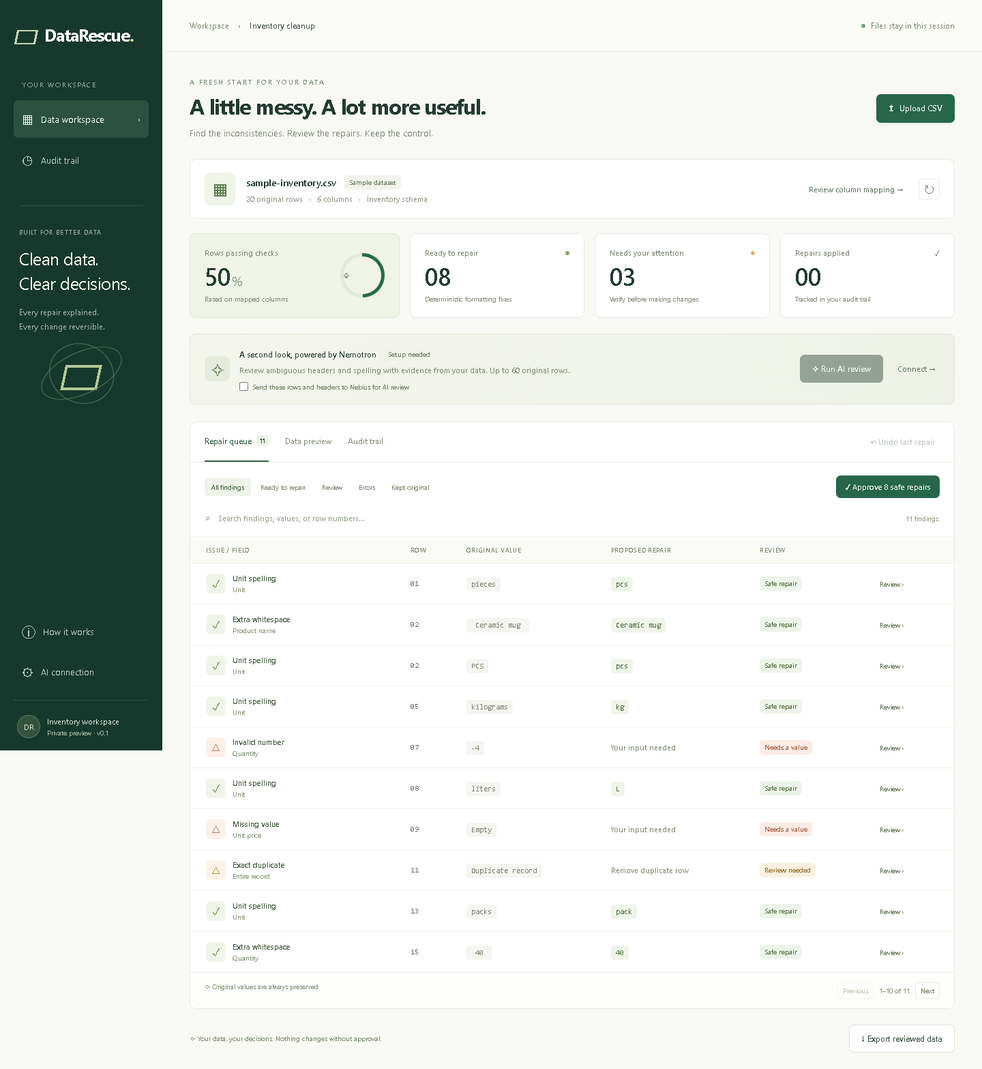
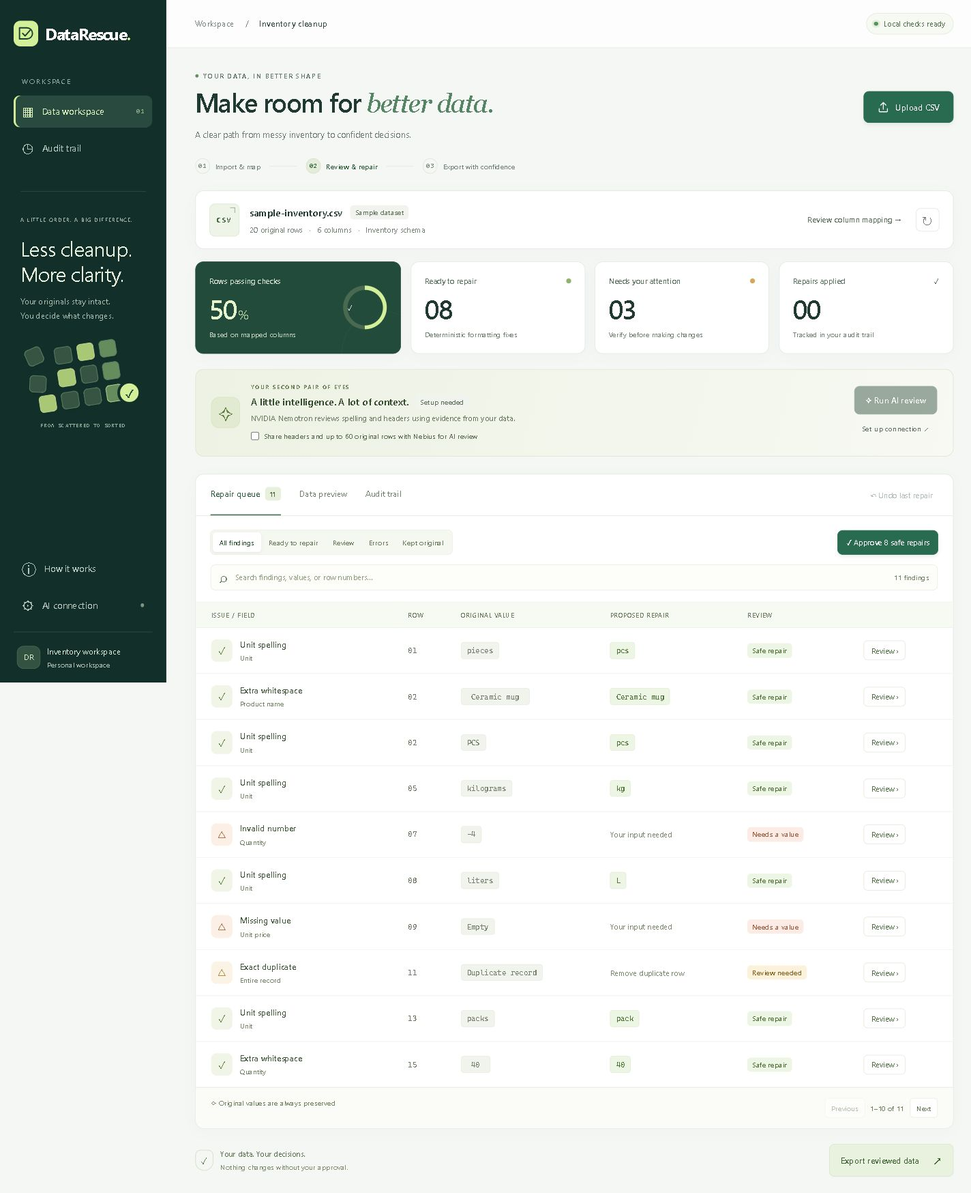
Refresh DataRescue workspace design and mobile repair cards

diff --git a/web/style.css b/web/style.css
@@ -5,3 +5,119 @@
 @media(max-width:560px){.main-content{padding:23px 14px}.topbar{padding-inline:16px;font-size:10px}.page-heading{flex-direction:column;gap:16px}.page-heading h1{font-size:24px;line-height:1.3;max-width:250px}.page-heading p{line-height:1.7;font-size:12px}.eyebrow{font-size:8px;letter-spacing:1px}.stat{padding:13px}.stat strong{font-size:29px}.stat p{font-size:9px}.stat>span,.stat>div>span{font-size:10px}.score-ring{display:none}.file-info h2{font-size:12px}.file-info p{font-size:9px}.dataset-card{padding:14px;gap:10px}.ai-banner{padding:16px;gap:12px}.spark-icon{display:none}.ai-copy{flex-basis:100%}.ai-banner p{line-height:1.7}.consent{line-height:1.6;align-items:flex-start}.consent input{margin-top:3px}.panel-tabs{padding-inline:14px}.tabs{gap:15px}.tabs>button{font-size:10px}.panel-tabs>.text-button{padding:9px 0}.panel-toolbar{padding:14px}.filter{font-size:9px;padding:7px}.search-row{padding-inline:15px}.table-footer{padding:13px;flex-wrap:wrap}.workspace-footer{flex-direction:column}.workspace-footer p{max-width:none}dialog{padding:25px}dialog h2{font-size:21px}.mapping-grid{grid-template-columns:1fr}.value-pair{gap:8px}.modal-actions .button{white-space:normal}.modal-actions{justify-content:stretch}.modal-actions>button{flex:1}.sidebar{width:56px;padding-inline:7px}main{margin-left:56px}}
 .cell-edit{border:0;background:transparent;color:inherit;text-align:left;font:inherit;padding:0;cursor:pointer;white-space:pre-wrap}.cell-edit:hover{text-decoration:underline}
 @media(max-width:560px){.file-info{flex:1 1 calc(100% - 60px)}.dataset-card>.text-button{flex:1 1 auto;justify-content:flex-start}.file-info h2{line-height:1.5}.file-info p{line-height:1.7}}
+
+/* DataRescue visual system — evergreen, warm paper, and citrus accents. */
+:root{--ink:#203a33;--muted:#697a73;--green:#286b50;--line:#e1e7e2;--paper:#f5f7f4;--lime:#d3ef99;--shadow:0 4px 20px #1c3e2805}
+body{font-family:Inter,"Segoe UI",sans-serif;font-size:14px;-webkit-font-smoothing:antialiased}
+button{transition:background .18s,box-shadow .18s,transform .18s}
+button:not(:disabled):active{transform:translateY(1px)}
+button:focus-visible,a:focus-visible,input:focus-visible,select:focus-visible{outline:3px solid #5ca487;outline-offset:3px}
+[hidden]{display:none!important}
+.skip-link{position:fixed;left:16px;top:-80px;z-index:100;background:white;border:2px solid var(--green);padding:14px;border-radius:8px}.skip-link:focus{top:16px}
+.icon{width:18px;height:18px;fill:none;stroke:currentColor;stroke-width:1.7;stroke-linecap:round;stroke-linejoin:round;flex-shrink:0}
+.sidebar{width:244px;background:#132f29;padding:30px 20px 20px;border-right:1px solid #29453b}
+.brand{gap:10px;font-size:24px;letter-spacing:-1px}
+.logo{width:36px;height:38px;display:grid;place-items:center;background:var(--lime);border-radius:10px;color:#193e2e}
+.logo svg{width:29px;height:29px;fill:none;stroke:currentColor;stroke-width:2.1;stroke-linecap:round;stroke-linejoin:round}
+.brand-dot{color:var(--lime)}
+.workspace-label{font-size:10px;letter-spacing:1.6px;color:#92a99e;margin:44px 12px 14px}
+.side-link{border-radius:9px;padding:13px 12px;gap:12px;margin-bottom:7px;color:#b6c9bf;min-height:46px;font-size:13px}
+.side-link>span{font-size:21px;line-height:1}
+.side-link b{font-weight:500}
+.side-link.active{background:#294a3e;color:#e0f4c1;box-shadow:inset 3px 0 var(--lime)}
+.side-link i{font:10px Consolas,monospace;opacity:.6}
+.side-note{margin:32px 10px 24px;border-top:1px solid #355044;padding-top:28px}
+.tiny-label{font-size:8px;letter-spacing:1.1px;color:#a1b3a5}
+.side-note h3{font-size:30px;line-height:1.22;font-weight:400;letter-spacing:-1px;margin:17px 0 12px;color:#e8f2de}
+.side-note p{font-size:12px;line-height:1.8;color:#a9bcb0}
+.data-art{position:relative;display:grid;grid-template-columns:repeat(4,25px);gap:8px;width:140px;margin:30px auto 20px;transform:rotate(-9deg)}
+.data-art span{height:25px;border:1px solid #60876c;background:#365441;border-radius:6px;box-shadow:0 3px 5px #0a1d2020}
+.data-art span:nth-child(3n){background:#a9c875;border-color:#c6e39b}
+.data-art span:nth-child(4n){background:#658c5d}
+.data-art span:first-child{transform:translate(-9px,-5px) rotate(-15deg)}
+.data-art span:nth-child(5){transform:translate(-10px,3px) rotate(12deg)}
+.data-art b{position:absolute;right:-10px;bottom:-8px;width:35px;height:35px;border:4px solid #132f29;background:var(--lime);color:#254c36;border-radius:50%;display:grid;place-items:center;transform:rotate(9deg);font-size:16px}
+.art-caption{display:block;font:8px Consolas,monospace;letter-spacing:1.2px;color:#96af9c;text-align:center;margin-top:24px}
+.profile{font-size:12px;border-color:#355044;padding-top:20px}
+.profile>span{border-radius:10px;color:#d9ebc6;background:#335242;border-color:#4b6957}
+.profile small{color:#a9bcae;font-size:10px}.connection-dot{background:#c9d5bc;width:5px;height:5px;border-radius:50%}
+main{margin-left:244px}.topbar{height:70px;padding:0 42px;background:#ffffffb5;font-size:12px;color:#75857c}.topbar>div{gap:16px}.topbar strong{font-weight:600;color:#344d41}
+.local-status{font-size:11px;border:1px solid #e1e9de;background:#f6faf3;border-radius:30px;padding:7px 11px;color:#55704f}.local-status i{background:#55935d;box-shadow:0 0 0 3px #e3efdc}
+.main-content{max-width:1570px;padding:36px 42px 25px}
+.page-heading{margin-bottom:25px;gap:25px}
+.eyebrow{display:flex;align-items:center;gap:7px;font-size:9px;color:#667c6c;letter-spacing:1.8px;font-weight:650}.eyebrow>span{height:5px;width:5px;background:#61905c;border-radius:50%}
+.page-heading h1{font-size:clamp(29px,2.7vw,42px);font-weight:550;letter-spacing:-1.7px;line-height:1.15;margin:11px 0 12px}
+.page-heading h1 em{font-family:Georgia,serif;font-weight:400;color:#568565;letter-spacing:-1.5px}
+.page-heading p{font-size:13px;color:#708076;line-height:1.6}
+.button{border-radius:8px;min-height:42px;padding:11px 16px;font-size:12px;gap:9px;font-weight:600;border-color:#d7e1d8;box-shadow:0 1px 2px #12322405}
+.button.primary{background:#286b50;border-color:#286b50;box-shadow:0 3px 6px #204e3516}
+.button.primary:hover:not(:disabled){background:#20583f;box-shadow:0 4px 10px #204e3528}
+.upload-button{height:46px;padding-inline:19px}.button.small{font-size:11px;min-height:36px;padding:8px 12px}
+.text-button{font-size:11px;font-weight:500;color:#617466;min-height:32px}
+.journey{display:flex;align-items:center;gap:13px;margin-bottom:25px;color:#728477;font-size:10px}
+.journey>span{display:flex;gap:8px;align-items:center;white-space:nowrap}
+.journey b{font:10px Consolas,monospace;display:grid;place-items:center;width:22px;height:22px;border:1px solid #dce5d9;border-radius:50%;font-weight:400}
+.journey .current{color:#31603f;font-weight:600}.journey .current b{background:#e3edda;border-color:#d4e0c7}
+.journey i{height:1px;width:40px;background:#dfe7dc}
+.dataset-card{padding:18px 20px;border-radius:12px;gap:15px;margin-bottom:18px;box-shadow:var(--shadow)}
+.file-icon{position:relative;width:44px;height:48px;border-radius:8px;background:#eef4e7;font:11px Consolas,monospace;letter-spacing:.6px;color:#456840;border:1px solid #dbe7d1;font-weight:700}
+.file-icon:before{content:"";position:absolute;right:5px;top:5px;width:7px;height:7px;border-top:1px solid #8ba17e;border-right:1px solid #8ba17e}
+.file-info h2{font-size:14px;font-weight:600;letter-spacing:-.2px}
+.file-info p{font-size:11px;color:#788478;margin-top:7px}.file-info p span{color:#b7c2b0}
+.pill{font-size:10px;border-radius:5px;padding:4px 7px;font-weight:500}
+.neutral{background:#f1f4ee;color:#63745c}.green-pill{background:#edf5e5;color:#4f7138}.amber-pill{background:#fcf1db;color:#876321}.red-pill{background:#fcece5;color:#a05a3d}
+.icon-button{border-radius:7px;width:34px;height:34px;font-size:19px}
+.stats{grid-template-columns:1.18fr 1fr 1fr 1fr;gap:14px;margin-bottom:22px}
+.stat{padding:20px;border-radius:12px;box-shadow:var(--shadow);position:relative;overflow:hidden}
+.stat>span,.stat>div>span{font-size:11px;font-weight:500;color:#637769}
+.stat strong{font-size:39px;font-weight:500;letter-spacing:-1.6px;margin:12px 0 9px;font-variant-numeric:tabular-nums}
+.stat p{font-size:10px;color:#778779;line-height:1.5}
+.stat.score{background:#234b3b;color:#fff;border-color:#234b3b;gap:10px}
+.stat.score:after{content:"";position:absolute;width:120px;height:120px;border:1px solid #ffffff09;right:-35px;bottom:-60px;border-radius:50%}
+.stat.score>div>span{color:#d3dfcf}.stat.score strong{color:#e7f5ce}.stat.score strong small{color:#adca9e}
+.stat.score p{color:#bdceb8}
+.score-ring{width:64px;height:64px;z-index:1}
+.score-ring>span{width:52px;height:52px;background:#234b3b;color:#d7ecad;font-size:24px}
+.dot{width:7px;height:7px}.green{background:#8fb36f}.amber{background:#d4a85b}
+.ai-banner{padding:21px 23px;border-radius:12px;background:linear-gradient(105deg,#edf2e4,#f7f9f2);border-color:#dce6ce;gap:16px;position:relative;margin-bottom:26px}
+.spark-icon{width:42px;height:46px;background:#e2ebd2;border:1px solid #d6e2c1;border-radius:12px;color:#638143;font-size:32px}
+.ai-kicker{font-size:8px;font-weight:650;letter-spacing:1.5px;color:#72845c;margin-bottom:6px}
+.ai-banner h3{font-size:14px;font-weight:600;letter-spacing:-.25px;color:#354c2c;flex-wrap:wrap}
+.ai-banner p{font-size:11px;line-height:1.6;color:#68785c}
+.consent{font-size:10px;color:#5c7051;line-height:1.5;margin-top:10px}.consent input{width:13px;height:13px;flex-shrink:0}
+.ai-actions{display:flex;flex-direction:column;align-items:center;gap:4px;flex-shrink:0}
+.button.dark{background:#254a35;border-color:#254a35}.ai-actions .text-button{font-size:10px}
+.work-panel{border-radius:12px;box-shadow:var(--shadow)}
+.panel-tabs{min-height:61px;padding:0 22px}.tabs{gap:27px}.tabs>button{font-size:12px;color:#71816d}.tabs>button.selected{color:#305e40;border-bottom:2px solid #3e7250}
+.tabs span{border-radius:5px;background:#e7efdd;color:#597044;min-width:23px;text-align:center;padding:3px 5px}
+.panel-toolbar{padding:20px 21px 14px;gap:12px}
+.filter-group{padding:3px;background:#f5f7f1;border:1px solid #edf0e6;border-radius:7px;gap:1px}
+.filter{font-size:10px;padding:6px 10px;min-height:29px;border-radius:5px;color:#6d7d60}
+.filter.active-filter{background:white;color:#365d3b;box-shadow:0 1px 4px #27452016}
+.search-row{margin:0 22px 17px;padding:0 12px;height:38px;border:1px solid #e7ece2;background:#fdfefa;border-radius:7px;color:#67805a}
+.search-row input{font-size:11px;height:100%;outline-offset:0}.search-row>span:first-child{font-size:20px}.search-row>span:last-child{color:#758669;white-space:nowrap}
+table{font-size:12px}th{font-size:9px;letter-spacing:.8px;padding-block:13px;background:#f7f9f3;color:#6f8064;border-color:#e9eee1}td{padding:16px 15px;color:#6b7861;border-color:#eef1e9}
+tbody tr:hover{background:#fbfcf8}.issue-name{gap:11px}.issue-name strong{font-size:12px;color:#3e5637;font-weight:550}.issue-name small{font-size:10px;color:#7d8a70;margin-top:5px}
+.issue-symbol{width:31px;height:33px;border-radius:8px;font-size:15px}.issue-symbol.safe{background:#f0f5e8;color:#668846}.issue-symbol.error{background:#fcefe6;color:#b07147}
+.mono,code{font-family:"Cascadia Code",Consolas,monospace;font-size:11px}
+.old-value{background:#f1f3ed;color:#77806c;border:1px solid #e9ece2;padding:5px 8px;display:inline-block}
+.new-value{background:#edf5e4;color:#52753c;border:1px solid #e3edd6;padding:5px 8px;display:inline-block}
+.row-review{font-size:11px;border:1px solid #e3e9da;padding:6px 10px;border-radius:6px;color:#527146;background:#fff}
+.row-review:hover{background:#eff5e8}
+.table-footer{padding:15px 22px;background:#fbfcf8;color:#738462;font-size:10px}.table-footer button{min-height:29px;border-radius:5px;padding:5px 9px;font-size:10px}
+.workspace-footer{margin-top:22px}.workspace-footer p{display:flex;gap:10px;align-items:center;font-size:11px;color:#58734c;max-width:none}.workspace-footer small{display:block;font-size:10px;color:#839275;margin-top:4px}
+.footer-shield{width:27px;height:30px;border:1px solid #ceddc1;border-radius:8px 8px 13px 13px;display:grid;place-items:center;color:#62864b;font-size:14px}
+.export-button{background:#e9f1df;border-color:#d9e4cc;color:#3d6031}.export-button span{font-size:18px;margin-left:10px}
+.notice{font-size:12px;border-radius:9px}.empty-state{padding:55px 20px}.empty-state h3{font-weight:500;color:#426539}
+dialog{border-radius:16px;background:#fffefb;padding:32px;box-shadow:0 25px 100px #102c2950}dialog h2{font-size:25px;color:#284937}dialog p{font-size:13px;color:#63765a}
+dialog::backdrop{background:#122c2970;backdrop-filter:blur(5px)}
+.explanation{border-radius:9px;color:#516d43;font-size:12px;background:#f0f5e9}.form-field input,.form-field select{min-height:44px;border-radius:8px}
+.audit-item strong{font-size:13px}.audit-item p{font-size:12px}.help-list{font-size:13px;line-height:1.8}
+@media(min-width:1550px){.main-content{padding-top:42px}.stat{padding:24px}.page-heading h1{font-size:43px}}
+@media(max-width:1250px){.sidebar{width:214px;padding-inline:16px}main{margin-left:214px}.main-content{padding:30px 25px}.topbar{padding-inline:25px}.brand{font-size:21px}.side-note{margin-inline:8px}.tiny-label{font-size:7px}.stat{padding:17px}.stats{gap:11px}.score-ring{width:50px;height:50px}.score-ring>span{width:40px;height:40px;font-size:20px}.ai-banner{padding:18px;gap:13px}.ai-copy{min-width:200px}.page-heading h1{font-size:32px}}
+@media(max-width:1000px){.sidebar{width:74px;padding:24px 11px}.brand{margin-bottom:28px;justify-content:center}.brand-text,.workspace-label,.side-note,.profile,.side-link b,.side-link i{display:none}.side-link{justify-content:center;padding:12px;min-height:44px}.side-link.active{box-shadow:inset 0 -2px var(--lime)}main{margin-left:74px}.stats{grid-template-columns:repeat(4,1fr)}.score-ring{display:none}.stat strong{font-size:34px}.page-heading h1{font-size:30px}.ai-banner{flex-wrap:nowrap}.ai-banner h3{font-size:13px}.spark-icon{display:none}}
+@media(max-width:760px){.stats{grid-template-columns:repeat(2,1fr)}.score-ring{display:grid}.main-content{padding:26px 22px}.page-heading{align-items:flex-start}.page-heading h1{font-size:29px}.page-heading p{font-size:12px}.upload-button{height:42px;padding:10px 13px}.journey{font-size:9px;gap:9px}.journey i{width:15px}.journey b{width:20px;height:20px}.ai-banner{flex-wrap:wrap}.ai-copy{flex:1 1 100%}.ai-actions{flex-direction:row;gap:12px}.panel-toolbar{flex-wrap:wrap}.filter-group{flex-wrap:wrap}.panel-tabs{padding:0 17px;flex-wrap:wrap}.tabs{gap:22px;min-height:57px}.panel-tabs>.text-button{font-size:10px}.search-row{margin-inline:17px}.dataset-card{flex-wrap:wrap}.file-info{flex:1 1 calc(100% - 75px)}.dataset-card>.text-button{margin-left:59px}.workspace-footer p{font-size:10px}}
+@media(max-width:560px){.sidebar{position:sticky;top:0;width:100%;height:62px;padding:10px 16px;flex-direction:row;align-items:center;z-index:20;gap:9px;border:0;border-bottom:1px solid #335143}.app-shell{display:block}.brand{margin:0 auto 0 0;gap:8px}.brand-text{display:block;font-size:20px}.logo{width:31px;height:33px;border-radius:8px}.logo svg{width:26px;height:26px}.sidebar>.side-link{width:35px;height:36px;min-height:36px;padding:5px;margin:0}.side-bottom{display:flex;margin:0}.side-bottom .side-link{width:35px;min-height:36px;margin:0;padding:5px}.side-bottom .side-link[data-action=help]{display:none}.side-link>span{font-size:19px}main{margin:0}.topbar{height:45px;padding-inline:18px;font-size:10px}.topbar>div{gap:10px}.local-status{display:none}.main-content{padding:25px 17px 20px}.page-heading{display:block;margin-bottom:20px}.page-heading h1{font-size:32px;max-width:310px;letter-spacing:-1.3px;line-height:1.1;margin:11px 0 12px}.page-heading h1 em{display:block}.page-heading p{max-width:280px;font-size:12px;line-height:1.65}.eyebrow{font-size:8px;letter-spacing:1.5px}.upload-button{margin-top:17px;width:100%}.journey{gap:7px;justify-content:space-between;margin-bottom:19px;font-size:9px}.journey>span{gap:5px}.journey i{width:10px}.journey b{width:18px;height:18px;font-size:9px}.journey>span:last-child{font-size:0}.journey>span:last-child:after{content:"Export";font-size:9px}.dataset-card{padding:15px;gap:12px;margin-bottom:14px}.file-info h2{font-size:12px;line-height:1.5;gap:5px}.file-info p{font-size:10px;line-height:1.7}.dataset-card>.text-button{margin:0;flex:1;justify-content:flex-start;font-size:10px}.stats{gap:10px;margin-bottom:17px}.stat{padding:17px 15px;min-height:137px}.stat strong{font-size:33px;margin:12px 0 9px}.stat p{font-size:9px;line-height:1.55}.stat>span,.stat>div>span{font-size:10px}.score-ring{display:none}.ai-banner{padding:17px;margin-bottom:20px}.ai-banner h3{font-size:14px;line-height:1.5;gap:7px}.ai-banner p{font-size:11px}.ai-kicker{font-size:8px;letter-spacing:1.2px}.consent{font-size:10px;align-items:flex-start;gap:8px;line-height:1.6;margin-top:12px}.consent input{margin-top:2px}.ai-actions{gap:7px;justify-content:space-between;width:100%}.ai-actions .button{font-size:11px;padding-inline:12px}.ai-actions .text-button{font-size:10px}.panel-tabs{padding-inline:14px}.tabs{gap:19px;min-height:54px}.tabs>button{font-size:11px}.panel-tabs>.text-button{padding-block:9px;min-height:28px;margin-bottom:5px}.panel-toolbar{padding:13px;gap:12px}.filter-group{width:100%;gap:0}.filter{font-size:9px;padding:6px 7px}.panel-toolbar>.button{width:100%}.search-row{margin:0 13px 13px;padding:0 9px}.search-row input{font-size:10px}.search-row>span:last-child{font-size:9px}th{font-size:8px}td{padding:14px 12px}.table-scroll{position:relative}.table-footer{padding:13px;font-size:9px;gap:12px}.workspace-footer{flex-direction:column;align-items:stretch;gap:17px}.workspace-footer p{font-size:11px;line-height:1.4}.export-button{width:100%;min-height:45px}dialog{padding:24px;max-width:calc(100% - 24px)}dialog h2{font-size:23px}.modal-actions{gap:8px}.mapping-grid{grid-template-columns:1fr}.value-pair{padding:12px}.help-list{font-size:12px}}
+@media(prefers-reduced-motion:no-preference){.main-content{animation:arrive .4s ease-out}@keyframes arrive{from{opacity:0;transform:translateY(5px)}to{opacity:1;transform:none}}}
+
+@media(max-width:560px){.review-table,.review-table tbody{display:block}.review-table thead{position:absolute;width:1px;height:1px;overflow:hidden;clip-path:inset(50%)}.review-table tr{display:grid;grid-template-columns:1fr 1fr;margin:0 13px 12px;padding:13px;border:1px solid #e4eadc;border-radius:10px;background:#fff;gap:12px}.review-table td{padding:0!important;border:0;max-width:none;min-width:0}.review-table td:first-child{grid-column:1 / -1}.review-table td:nth-child(2){position:absolute;right:27px;font-size:10px;color:#7c8d71;padding-top:2px!important}.review-table td:nth-child(2):before{content:"Row ";font:10px 'Segoe UI',sans-serif}.review-table td[data-label]:not(:nth-child(2)):before{content:attr(data-label);display:block;font-size:9px;color:#7a896e;margin-bottom:7px}.review-table td:last-child{text-align:right}.review-table .issue-name{min-width:0;padding-right:42px}.review-table .issue-name strong{font-size:12px}.review-table .old-value,.review-table .new-value{font-size:11px;max-width:100%;overflow-wrap:anywhere}.review-table .row-review{min-height:32px;padding:5px 12px}.review-table tr{position:relative}.review-table td:nth-child(2){right:13px;top:15px}.review-table .pill{margin-top:5px}.review-table .muted{font-size:11px;line-height:1.6}}

diff --git a/web/app.js b/web/app.js
@@ -15,8 +15,8 @@ function refresh() {
   const score=quality(currentRows,findings), original=quality(s.data.rows,scan(s.data.rows,s.mapping));
   const missing=FIELDS.filter(f=>f!=='category'&&s.mapping[f]===undefined);
   $('messages').innerHTML=(s.error?`<div class="notice error" role="alert">⚠ ${escape(s.error)}<button data-action="dismiss" aria-label="Dismiss message">×</button></div>`:'')+(s.notice?`<div class="notice" role="status">✓ ${escape(s.notice)}<button data-action="dismiss" aria-label="Dismiss message">×</button></div>`:'');
-  $('dataset').innerHTML=`<div class="file-icon">▦</div><div class="file-info"><h2>${escape(s.filename)}<span class="pill neutral">${s.isSample?'Sample dataset':'Your dataset'}</span></h2><p>${s.data.rows.length} original rows <span>·</span> ${s.data.headers.length} columns <span>·</span> Inventory schema</p>${missing.length?`<div class="unmapped">Unmapped: ${missing.map(f=>LABELS[f]).join(', ')}</div>`:''}</div><button class="text-button" data-action="mapping" ${s.changes.length||s.busy?'disabled':''}>Review column mapping →</button><button class="icon-button" data-action="sample" aria-label="Load sample dataset" title="Load sample dataset" ${s.busy?'disabled':''}>↻</button>`;
-  $('stats').innerHTML=`<div class="stat score"><div><span>Rows passing checks</span><strong>${score}<small>%</small></strong><p>${s.changes.length?`Started at ${original}% · current checks`:'Based on mapped columns'}</p></div><div class="score-ring" style="background:conic-gradient(#236b4b ${score}%,#e0e9df 0)"><span>♧</span></div></div><div class="stat"><span>Ready to repair <i class="dot green"></i></span><strong>${String(safe.length).padStart(2,'0')}</strong><p>Deterministic formatting fixes</p></div><div class="stat"><span>Needs your attention <i class="dot amber"></i></span><strong>${String(attention.length).padStart(2,'0')}</strong><p>Verify before making changes</p></div><div class="stat"><span>Repairs applied <span>✓</span></span><strong>${String(s.changes.length).padStart(2,'0')}</strong><p>Tracked in your audit trail</p></div>`;
+  $('dataset').innerHTML=`<div class="file-icon" aria-hidden="true">CSV</div><div class="file-info"><h2>${escape(s.filename)}<span class="pill neutral">${s.isSample?'Sample dataset':'Your dataset'}</span></h2><p>${s.data.rows.length} original rows <span>·</span> ${s.data.headers.length} columns <span>·</span> Inventory schema</p>${missing.length?`<div class="unmapped">Unmapped: ${missing.map(f=>LABELS[f]).join(', ')}</div>`:''}</div><button class="text-button" data-action="mapping" ${s.changes.length||s.busy?'disabled':''}>Review column mapping →</button><button class="icon-button" data-action="sample" aria-label="Load sample dataset" title="Load sample dataset" ${s.busy?'disabled':''}>↻</button>`;
+  $('stats').innerHTML=`<div class="stat score"><div><span>Rows passing checks</span><strong>${score}<small>%</small></strong><p>${s.changes.length?`Started at ${original}% · current checks`:'Based on mapped columns'}</p></div><div class="score-ring" style="background:conic-gradient(#d3ef99 ${score}%,#496a50 0)"><span>✓</span></div></div><div class="stat"><span>Ready to repair <i class="dot green"></i></span><strong>${String(safe.length).padStart(2,'0')}</strong><p>Deterministic formatting fixes</p></div><div class="stat"><span>Needs your attention <i class="dot amber"></i></span><strong>${String(attention.length).padStart(2,'0')}</strong><p>Verify before making changes</p></div><div class="stat"><span>Repairs applied <span>✓</span></span><strong>${String(s.changes.length).padStart(2,'0')}</strong><p>Tracked in your audit trail</p></div>`;
   $('ai-status').textContent=s.config?.configured?'Key configured':'Setup needed';
   $('ai-status').className='pill '+(s.config?.configured?'green-pill':'neutral');
   $('connect').hidden=Boolean(s.config?.configured);
@@ -24,7 +24,8 @@ function refresh() {
   $('run-ai').textContent=s.busy?'Reviewing…':'✧ Run AI review';
   $('undo').disabled=!s.changes.length||s.busy;
   $('issue-count').textContent=findings.length;
-  for (const t of ['review','data','audit']) $('tab-'+t).classList.toggle('selected',s.tab===t);
+  for (const t of ['review','data','audit']) { $('tab-'+t).classList.toggle('selected',s.tab===t); $('tab-'+t).setAttribute('aria-selected',String(s.tab===t)); }
+  $('panel').setAttribute('aria-labelledby','tab-'+s.tab);
   document.querySelectorAll('.side-link[data-action="review"],.side-link[data-action="audit"]').forEach(el=>el.classList.toggle('active',el.dataset.action===(s.tab==='audit'?'audit':'review')));
   renderPanel();
 }
@@ -34,7 +35,7 @@ function renderPanel() {
     visible=findings.filter(i=>(s.filter==='all'||s.filter===i.severity||(s.filter==='kept'&&s.kept.includes(i.id)))&&`${i.kind} ${i.before} ${i.reason} ${i.row}`.toLowerCase().includes(s.query.toLowerCase()));
     s.page=Math.min(s.page,Math.max(0,Math.ceil(visible.length/10)-1));
     const safe=findings.filter(i=>i.severity==='safe'&&!s.kept.includes(i.id));
-    $('panel').innerHTML=`<div class="panel-toolbar"><div class="filter-group">${[['all','All findings'],['safe','Ready to repair'],['review','Review'],['error','Errors'],['kept','Kept original']].map(([v,l])=>`<button class="filter ${s.filter===v?'active-filter':''}" data-filter="${v}">${l}</button>`).join('')}</div><button class="button small primary" data-action="approve-safe" ${!safe.length||s.busy?'disabled':''}>✓ Approve ${safe.length} safe repairs</button></div><div class="search-row"><span>⌕</span><input id="search" aria-label="Search findings" placeholder="Search findings, values, or row numbers…" value="${escape(s.query)}"><span>${visible.length} findings</span></div><div class="table-scroll"><table><thead><tr><th>ISSUE / FIELD</th><th>ROW</th><th>ORIGINAL VALUE</th><th>PROPOSED REPAIR</th><th>REVIEW</th><th></th></tr></thead><tbody>${visible.slice(s.page*10,s.page*10+10).map((i,j)=>`<tr><td><div class="issue-name"><span class="issue-symbol ${i.severity}">${i.severity==='safe'?'✓':'△'}</span><div><strong>${escape(i.kind)}</strong><small>${i.column<0?'Entire record':escape(s.data.headers[i.column])}${i.source==='nemotron'?' · Nemotron':''}</small></div></div></td><td class="mono">${String(i.row).padStart(2,'0')}</td><td><code class="old-value">${i.deleteRow?'Duplicate record':escape(i.before)||'Empty'}</code></td><td>${i.after!==null?`<code class="new-value">${escape(i.after)||'Empty'}</code>`:`<span class="muted">${i.deleteRow?'Remove duplicate row':'Your input needed'}</span>`}</td><td><span class="pill ${s.kept.includes(i.id)?'neutral':i.severity==='safe'?'green-pill':i.severity==='error'?'red-pill':'amber-pill'}">${s.kept.includes(i.id)?'Kept original':i.severity==='safe'?'Safe repair':i.severity==='error'?'Needs a value':'Review needed'}</span></td><td><button class="row-review" data-review="${s.page*10+j}" ${s.busy?'disabled':''}>Review ›</button></td></tr>`).join('')}</tbody></table></div>${!visible.length?`<div class="empty-state"><h3>${findings.length?'No findings in this view':'Your mapped data passes the checks'}</h3><p>${findings.length?'Try another filter or search.':'This does not certify factual correctness. Export and keep an audit copy.'}</p></div>`:''}<div class="table-footer"><span>◇ Original values are always preserved</span>${pagination(visible.length,10)}</div>`;
+    $('panel').innerHTML=`<div class="panel-toolbar"><div class="filter-group">${[['all','All findings'],['safe','Ready to repair'],['review','Review'],['error','Errors'],['kept','Kept original']].map(([v,l])=>`<button class="filter ${s.filter===v?'active-filter':''}" data-filter="${v}">${l}</button>`).join('')}</div><button class="button small primary" data-action="approve-safe" ${!safe.length||s.busy?'disabled':''}>✓ Approve ${safe.length} safe repairs</button></div><div class="search-row"><span>⌕</span><input id="search" aria-label="Search findings" placeholder="Search findings, values, or row numbers…" value="${escape(s.query)}"><span>${visible.length} findings</span></div><div class="table-scroll"><table class="review-table"><thead><tr><th>ISSUE / FIELD</th><th>ROW</th><th>ORIGINAL VALUE</th><th>PROPOSED REPAIR</th><th>REVIEW</th><th></th></tr></thead><tbody>${visible.slice(s.page*10,s.page*10+10).map((i,j)=>`<tr><td><div class="issue-name"><span class="issue-symbol ${i.severity}">${i.severity==='safe'?'✓':'△'}</span><div><strong>${escape(i.kind)}</strong><small>${i.column<0?'Entire record':escape(s.data.headers[i.column])}${i.source==='nemotron'?' · Nemotron':''}</small></div></div></td><td class="mono" data-label="Row">${String(i.row).padStart(2,'0')}</td><td data-label="Original"><code class="old-value">${i.deleteRow?'Duplicate record':escape(i.before)||'Empty'}</code></td><td data-label="Proposed repair">${i.after!==null?`<code class="new-value">${escape(i.after)||'Empty'}</code>`:`<span class="muted">${i.deleteRow?'Remove duplicate row':'Your input needed'}</span>`}</td><td><span class="pill ${s.kept.includes(i.id)?'neutral':i.severity==='safe'?'green-pill':i.severity==='error'?'red-pill':'amber-pill'}">${s.kept.includes(i.id)?'Kept original':i.severity==='safe'?'Safe repair':i.severity==='error'?'Needs a value':'Review needed'}</span></td><td><button class="row-review" data-review="${s.page*10+j}" ${s.busy?'disabled':''}>Review ›</button></td></tr>`).join('')}</tbody></table></div>${!visible.length?`<div class="empty-state"><h3>${findings.length?'No findings in this view':'Your mapped data passes the checks'}</h3><p>${findings.length?'Try another filter or search.':'This does not certify factual correctness. Export and keep an audit copy.'}</p></div>`:''}<div class="table-footer"><span>◇ Original values are always preserved</span>${pagination(visible.length,10)}</div>`;
   } else if(s.tab==='data') {
     const rows=s.original?s.data.rows:currentRows; s.page=Math.min(s.page,Math.max(0,Math.ceil(rows.length/20)-1));
     const changed=new Set(s.changes.filter(c=>!c.deleteRow).map(c=>`${c.row}:${c.column}`));
@@ -85,3 +86,5 @@ document.addEventListener('change',event=>{if(event.target.id==='consent')refres
 $('file').addEventListener('change',async event=>{const file=event.target.files[0];if(file){if(file.size>MAX_BYTES){s.error='Please choose a CSV under 1 MB.';refresh();}else if(!s.changes.length||confirm('Start a new session? Export the audit first to keep your repairs.'))load(await file.text(),file.name);}event.target.value='';});
 window.addEventListener('beforeunload',event=>{if(s.changes.length){event.preventDefault();event.returnValue='';}});
 refresh();config();
+
+

diff --git a/web/index.html b/web/index.html
@@ -1,1 +1,13 @@
-<!doctype html><html lang="en"><head><meta charset="utf-8"><meta name="viewport" content="width=device-width,initial-scale=1"><meta name="description" content="Review, repair, and export inventory data with an explanation for every change."><title>DataRescue — Clean data. Clear decisions.</title><style>/*APP_CSS*/</style></head><body><div class="app-shell"><aside class="sidebar"><a class="brand" href="/" aria-label="DataRescue home"><span class="logo">▱</span><span class="brand-text">DataRescue<span class="brand-dot">.</span></span></a><div class="workspace-label">YOUR WORKSPACE</div><button class="side-link active" data-action="review"><span>▦</span><b>Data workspace</b><i>›</i></button><button class="side-link" data-action="audit"><span>◷</span><b>Audit trail</b></button><div class="side-note"><span class="tiny-label">BUILT FOR BETTER DATA</span><h3>Clean data.<br>Clear decisions.</h3><p>Every repair explained.<br>Every change reversible.</p><div class="orbit"><span>▱</span></div></div><div class="side-bottom"><button class="side-link" data-action="help"><span>ⓘ</span><b>How it works</b></button><button class="side-link" data-action="settings"><span>⚙</span><b>AI connection</b></button><div class="profile"><span>DR</span><div>Inventory workspace<small>Private preview · v0.1</small></div></div></div></aside><main><header class="topbar"><div>Workspace <span>›</span> <strong>Inventory cleanup</strong></div><span class="local-status"><i></i> Files stay in this session</span></header><div class="main-content"><div class="page-heading"><div><div class="eyebrow">A FRESH START FOR YOUR DATA</div><h1>A little messy. A lot more useful.</h1><p>Find the inconsistencies. Review the repairs. Keep the control.</p></div><button class="button primary" data-action="upload"><span>↥</span> Upload CSV</button></div><input id="file" type="file" accept=".csv,text/csv" hidden><div id="messages" aria-live="polite"></div><section id="dataset" class="dataset-card"></section><section id="stats" class="stats"></section><section class="ai-banner"><div class="spark-icon">✧</div><div class="ai-copy"><h3>A second look, powered by Nemotron <span id="ai-status" class="pill neutral">Setup needed</span></h3><p>Review ambiguous headers and spelling with evidence from your data. Up to 60 original rows.</p><label class="consent"><input id="consent" type="checkbox"> Send these rows and headers to Nebius for AI review</label></div><button id="run-ai" class="button dark" data-action="ai" disabled>✧ Run AI review</button><button id="connect" class="text-button" data-action="settings">Connect →</button></section><section class="work-panel"><div class="panel-tabs"><div class="tabs"><button id="tab-review" data-action="review" class="selected">Repair queue <span id="issue-count"></span></button><button id="tab-data" data-action="data">Data preview</button><button id="tab-audit" data-action="audit">Audit trail</button></div><button id="undo" class="text-button" data-action="undo" disabled>↶ Undo last repair</button></div><div id="panel"></div></section><footer class="workspace-footer"><p>◇ Your data, your decisions. Nothing changes without approval.</p><button class="button" data-action="export">↓ Export reviewed data</button></footer></div></main></div><dialog id="dialog"><button class="modal-close" data-action="close" aria-label="Close dialog">×</button><div id="dialog-content"></div></dialog><script type="module">/*APP_JS*/</script></body></html>
+<!doctype html><html lang="en"><head><meta charset="utf-8"><meta name="viewport" content="width=device-width,initial-scale=1"><meta name="theme-color" content="#122e29"><meta name="description" content="Turn messy inventory into data you can trust. Review every repair, preserve every original, and export with confidence."><title>DataRescue — Your data, in better shape.</title><style>/*APP_CSS*/</style></head><body>
+<a class="skip-link" href="#workspace">Skip to workspace</a><div class="app-shell"><aside class="sidebar" aria-label="Workspace navigation"><a class="brand" href="/" aria-label="DataRescue home"><span class="logo"><svg viewBox="0 0 32 32" aria-hidden="true"><path d="M6 7h12a9 9 0 0 1 0 18H6V7Z"/><path d="m11 16 4 4 8-9"/></svg></span><span class="brand-text">DataRescue<span class="brand-dot">.</span></span></a>
+<div class="workspace-label">WORKSPACE</div><button class="side-link active" data-action="review" aria-label="Data workspace"><span>▦</span><b>Data workspace</b><i>01</i></button><button class="side-link" data-action="audit" aria-label="Audit trail"><span>◷</span><b>Audit trail</b></button>
+<div class="side-note"><span class="tiny-label">A LITTLE ORDER. A BIG DIFFERENCE.</span><h3>Less cleanup.<br>More clarity.</h3><p>Your originals stay intact.<br>You decide what changes.</p><div class="data-art" aria-hidden="true"><span></span><span></span><span></span><span></span><span></span><span></span><span></span><span></span><span></span><span></span><span></span><span></span><b>✓</b></div><span class="art-caption">FROM SCATTERED TO SORTED</span></div>
+<div class="side-bottom"><button class="side-link" data-action="help" aria-label="How it works"><span>ⓘ</span><b>How it works</b></button><button class="side-link" data-action="settings" aria-label="AI connection"><span>⚙</span><b>AI connection</b><i class="connection-dot"></i></button><div class="profile"><span>DR</span><div>Inventory workspace<small>Personal workspace</small></div></div></div></aside>
+<main id="workspace"><header class="topbar"><div>Workspace <span>/</span> <strong>Inventory cleanup</strong></div><span class="local-status"><i></i> Local checks ready</span></header><div class="main-content">
+<div class="page-heading"><div><div class="eyebrow"><span></span> YOUR DATA, IN BETTER SHAPE</div><h1>Make room for <em>better data.</em></h1><p>A clear path from messy inventory to confident decisions.</p></div><button class="button primary upload-button" data-action="upload"><svg class="icon" viewBox="0 0 24 24" aria-hidden="true"><path d="M12 16V3m-5 5 5-5 5 5M4 15v5a1 1 0 0 0 1 1h14a1 1 0 0 0 1-1v-5"/></svg>Upload CSV</button></div>
+<div class="journey" aria-label="Cleanup workflow"><span><b>01</b> Import &amp; map</span><i></i><span class="current"><b>02</b> Review &amp; repair</span><i></i><span><b>03</b> Export with confidence</span></div>
+<input id="file" type="file" accept=".csv,text/csv" hidden><div id="messages" aria-live="polite"></div><section id="dataset" class="dataset-card" aria-label="Current dataset"></section><section id="stats" class="stats" aria-label="Data quality overview"></section>
+<section class="ai-banner"><div class="spark-icon">✧</div><div class="ai-copy"><div class="ai-kicker">YOUR SECOND PAIR OF EYES</div><h3>A little intelligence. A lot of context. <span id="ai-status" class="pill neutral">Setup needed</span></h3><p>NVIDIA Nemotron reviews spelling and headers using evidence from your data.</p><label class="consent"><input id="consent" type="checkbox"> Share headers and up to 60 original rows with Nebius for AI review</label></div><div class="ai-actions"><button id="run-ai" class="button dark" data-action="ai" disabled>✧ Run AI review</button><button id="connect" class="text-button" data-action="settings">Set up connection ↗</button></div></section>
+<section class="work-panel" aria-label="Data review"><div class="panel-tabs"><div class="tabs" role="tablist" aria-label="Workspace views"><button id="tab-review" role="tab" aria-controls="panel" aria-selected="true" data-action="review" class="selected">Repair queue <span id="issue-count"></span></button><button id="tab-data" role="tab" aria-controls="panel" aria-selected="false" data-action="data">Data preview</button><button id="tab-audit" role="tab" aria-controls="panel" aria-selected="false" data-action="audit">Audit trail</button></div><button id="undo" class="text-button" data-action="undo" disabled>↶ Undo last repair</button></div><div id="panel" role="tabpanel" aria-labelledby="tab-review"></div></section>
+<footer class="workspace-footer"><p><span class="footer-shield">✓</span><span>Your data. Your decisions.<small>Nothing changes without your approval.</small></span></p><button class="button export-button" data-action="export">Export reviewed data <span>↗</span></button></footer></div></main></div>
+<dialog id="dialog" aria-label="DataRescue review"><button class="modal-close" data-action="close" aria-label="Close dialog">×</button><div id="dialog-content"></div></dialog><script type="module">/*APP_JS*/</script></body></html>
